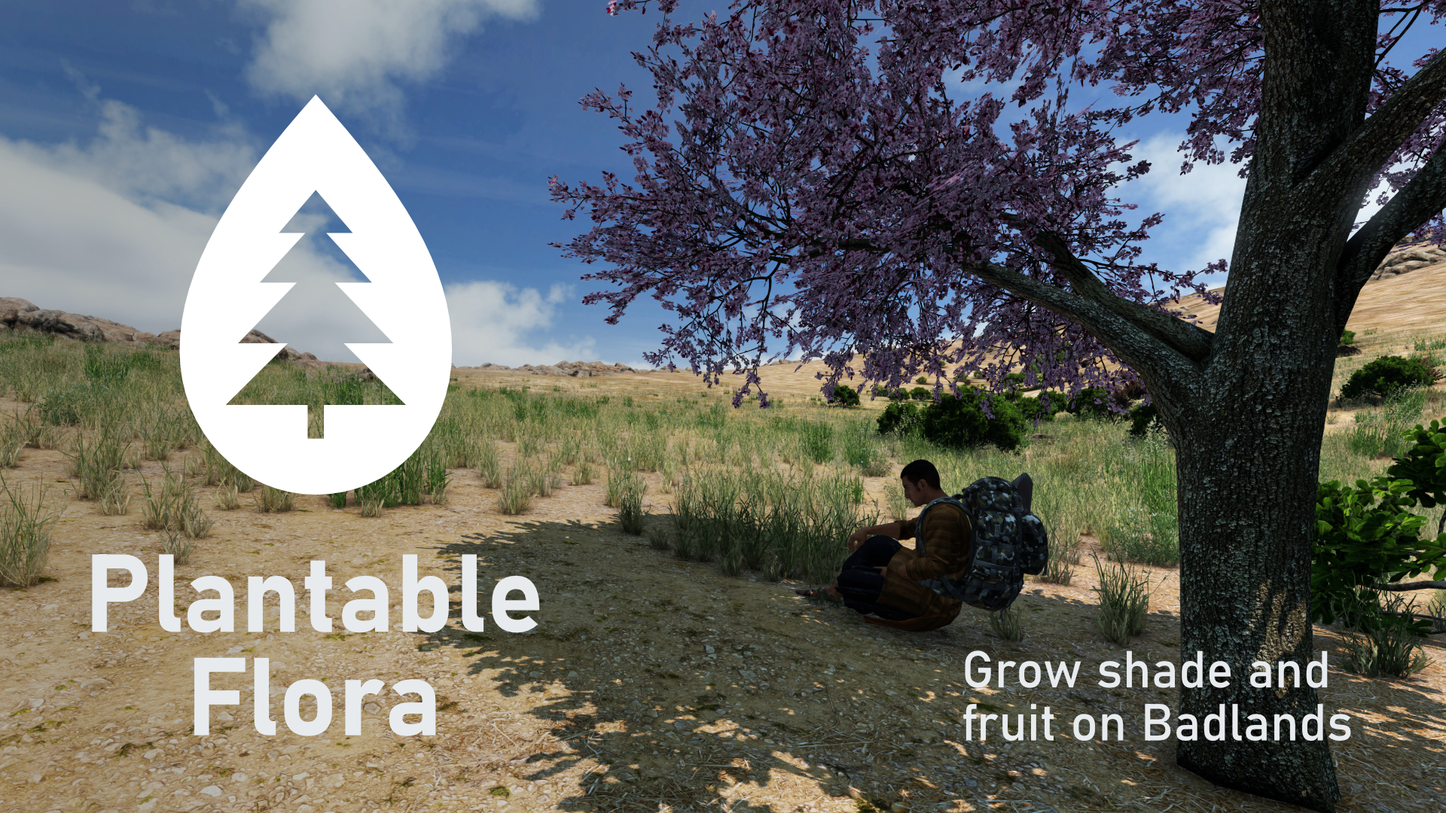
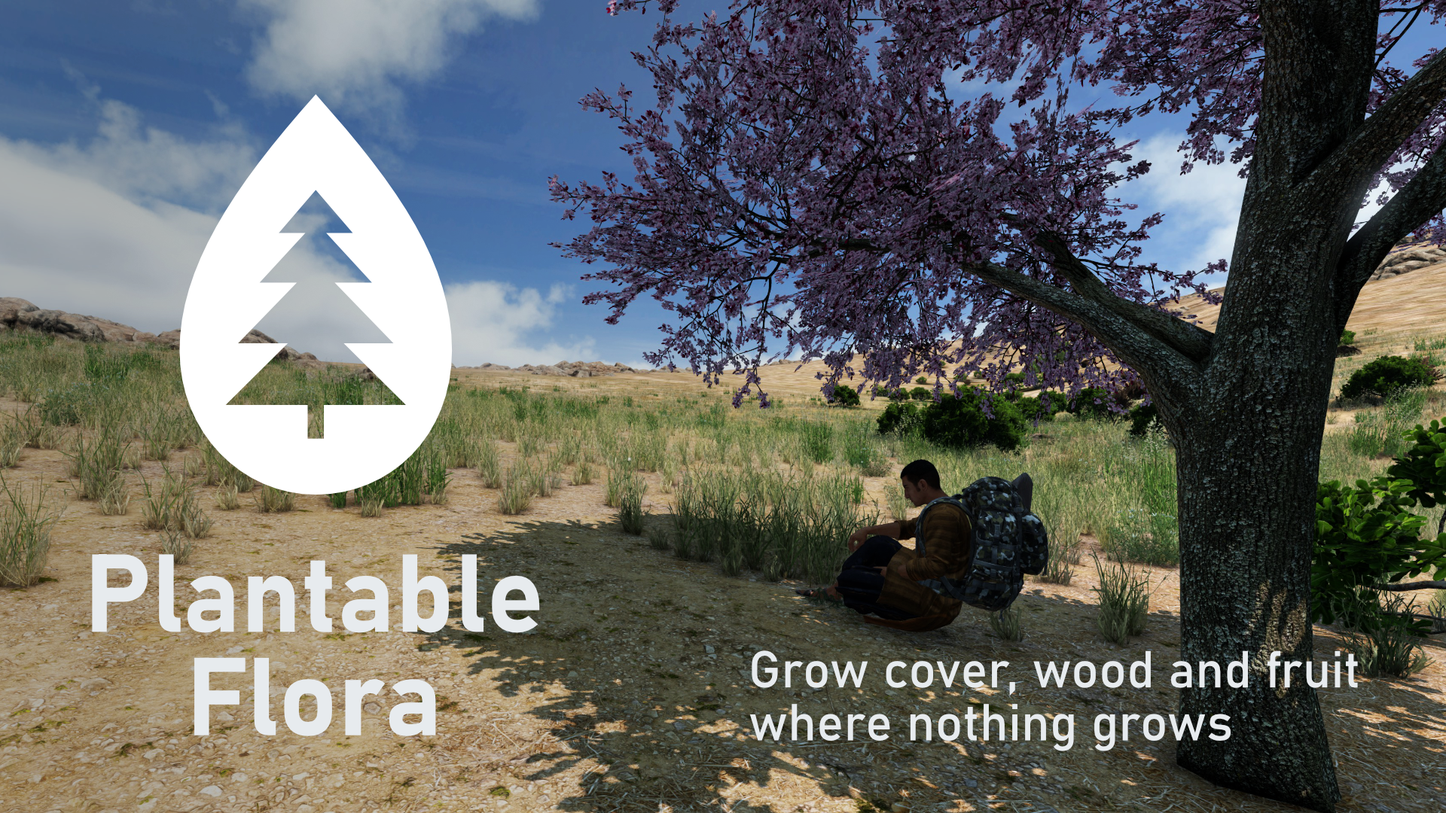
Roadmap, updated Badlands screenshot

Changed region(s): [[0.5, 0.7944, 0.9375, 0.9167]]

diff --git a/ROADMAP.md b/ROADMAP.md
@@ -1,0 +1,30 @@
+# Roadmap
+
+What may come after 0.1.0. Nothing here is a promise, order and details can change. Ideas and wishes are welcome: [open an issue](https://github.com/olliollio/PlantableFlora/issues).
+
+## Next (v1.1)
+
+- **Real shade on Badlands.** Today a tree's shade is only a look: vanilla DayZ has no shade mechanic, its temperature has no sun component per position. Planned: during the day a player under the crown of any tree, wild or planted, gets a lower temperature. Strength and maps set by the server admin, off with one setting.
+- **Map mods without an addon.** Admins of custom maps (Namalsk, Deer Isle, …) can tell the mod in `config.json` which wild tree of their map gives which seed, e.g. the map's own spruce gives spruce seeds. No extra PBO needed for that.
+- **Frostline look.** Planted trees take the winter or late-fall look of the wild trees around them instead of the green summer models.
+
+## Planned
+
+- **Dry maps need more water.** A Badlands tree needs more water than a Chernarus tree, poured in several steps. Admin settings per map and per species (olive and date palm are drought hardy).
+- **Re-watering.** Optionally, trees on dry maps must be watered again until they are grown, otherwise they wither.
+- **More ground for planting on Badlands.** Optional admin setting to allow dry grass and sand (vanilla only allows about 40 % of the land), with a higher water need.
+- **Winter maps:** frozen ground can only be dug where a fire has burned for a while; digging takes longer on frozen ground.
+- **Fruit again.** Own fruit trees bear again after some time (today: once per player per server restart).
+- **Namalsk and Deer Isle** tested and supported.
+
+## Ideas (not decided)
+
+- **Crowded trees thin out.** Trees may be planted closer (1 m), but in a dense group the youngest may die while growing, like in a real forest. The planting prompt warns.
+- **Falling trees.** A felled tree falls over and leaves a trunk next to the stump.
+- **Seed models per species** (acorn, cone, berries), so experienced players recognise a seed.
+- **Old giants.** After a very long time a tree grows into the largest vanilla size.
+- **Growth waits when something is in the way** (a car or a wall on the spot) instead of growing into it.
+
+## Done
+
+See [CHANGELOG.md](CHANGELOG.md).

diff --git a/README.md b/README.md
@@ -21,6 +21,7 @@ Players dig a planting hole, water it and plant tree and bush seeds they find in
 
 | Guide | For |
 |---|---|
+| [Roadmap](ROADMAP.md) | What may come next (real shade on Badlands, map mods, Frostline look, …) |
 | [Admin guide](docs/ADMIN.md) | Server owners: install, loot, species per map, `config.json`, every setting, presets |
 | [Tester guide](docs/TESTER.md) | Testers: what to try |
 
@@ -33,7 +34,7 @@ Players dig a planting hole, water it and plant tree and bush seeds they find in
 
 ## Status
 
-Test build (0.1.0). See [CHANGELOG.md](CHANGELOG.md).
+Test build (0.1.0). See [CHANGELOG.md](CHANGELOG.md) and the [roadmap](ROADMAP.md).
 
 ## Repository layout
 
